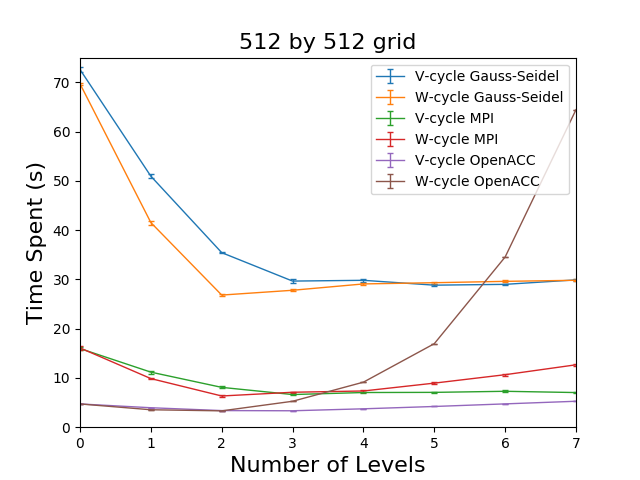
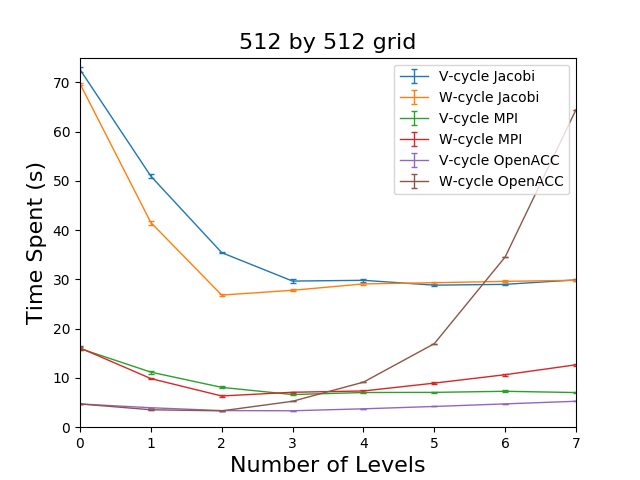
done

Changed region(s): [[0.5625, 0.125, 0.9062, 0.4062]]

diff --git a/data/plot.py b/data/plot.py
@@ -68,8 +68,8 @@ ax.set_ylabel('Time Spent (s)', fontsize = 16)
 
 ax.axis([0, 7, 0, 75])
 linestyle = {"linestyle":"-", "linewidth":1, "markeredgewidth":1, "elinewidth":1, "capsize":2}
-ax.errorbar(xaxis, mean1, yerr = se1, **linestyle, label='V-cycle Gauss-Seidel')
-ax.errorbar(xaxis, mean2, yerr = se2, **linestyle, label='W-cycle Gauss-Seidel')
+ax.errorbar(xaxis, mean1, yerr = se1, **linestyle, label='V-cycle Jacobi')
+ax.errorbar(xaxis, mean2, yerr = se2, **linestyle, label='W-cycle Jacobi')
 ax.errorbar(xaxis, mean3, yerr = se3, **linestyle, label='V-cycle MPI')
 ax.errorbar(xaxis, mean4, yerr = se4, **linestyle, label='W-cycle MPI')
 ax.errorbar(xaxis, mean5, yerr = se5, **linestyle, label='V-cycle OpenACC')
